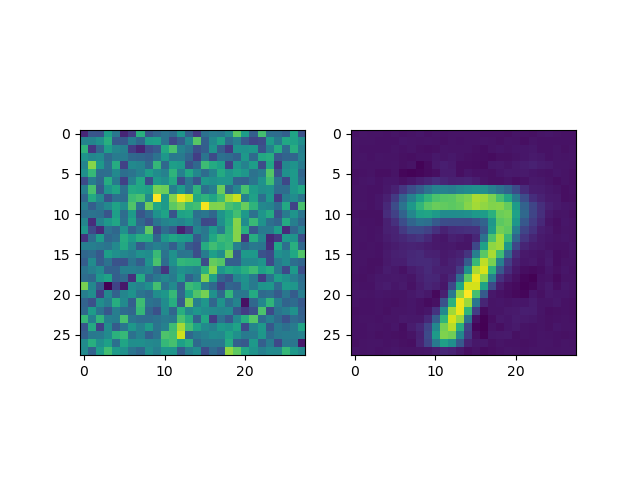
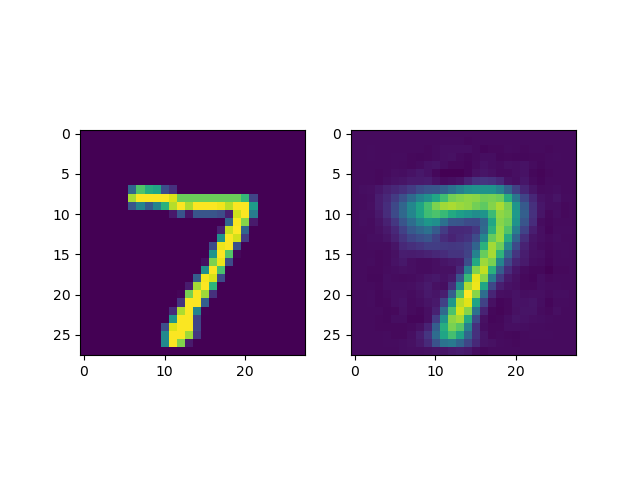
Wabalaba dub dub!

Changed region(s): [[0.125, 0.25, 0.5, 0.75], [0.625, 0.3438, 0.875, 0.75]]

diff --git a/auto.py b/auto.py
@@ -46,6 +46,20 @@ class View(nn.Module):
     def forward(self, input):
         return input.view(*self.shape) 
 
+#   Noise
+normal = torch.distributions.Normal(0, 0.5)
+
+def addNoise(x, device = 'cpu'):
+    return x + normal.sample(sample_shape = torch.Size(x.shape)).to(device)
+
+class AdditiveGaussianNoise(nn.Module):
+    def __init__(self) -> None:
+        super().__init__()
+        
+    def forward(self, x):
+        if self.training:
+            return addNoise(x, device = device)
+
 linearLayer = nn.Linear(D, N, bias = False)
 def getLayer(inSize, outSize):
     return nn.Sequential(
@@ -57,19 +71,27 @@ def getLayer(inSize, outSize):
 #   Encoder
 autoEncoder = nn.Sequential(
     nn.Flatten(),
-    getLayer(D, D*2),
-    getLayer(D*2, D*2),
-    getLayer(D*2, D*2),
-    nn.Linear(D*2, D*2),
+    # AdditiveGaussianNoise(),
+    nn.Dropout(0.2),
+    getLayer(D, D//2),
+    nn.Dropout(0.2),
+    getLayer(D//2, D//3),
+    nn.Dropout(0.2),
+    getLayer(D//3, D//4),
+    nn.Dropout(0.2),
+    nn.Linear(D//4, N),
 )
 
 #   Decoder
 autoDecoder = nn.Sequential(
     # TransposeLayer(linearLayer, bias = False), View(-1, 1, 28, 28)
-    getLayer(D*2, D*2),
-    getLayer(D*2, D*2),
-    getLayer(D*2, D*2),
-    nn.Linear(D*2, D),
+    getLayer(N, D//4),
+    nn.Dropout(0.2),
+    getLayer(D//4, D//3),
+    nn.Dropout(0.2),
+    getLayer(D//3, D//2),
+    nn.Dropout(0.2),
+    nn.Linear(D//2, D),
     View(-1, 1, 28, 28)
 )
 
@@ -138,7 +160,7 @@ projected, labels = encodeBatch(autoEncoder, testSetXY)
 sns.scatterplot(x = projected[:, 0], y = projected[:, 1],
                 hue = [str(l) for l in labels],
                 hue_order = [str(i) for i in range(10)], legend = 'full')
-plt.savefig('./plts/scatter2.png')
+plt.savefig('./plts/scatter.png')
 
 def showEncodeDecode(encodeDecode, x, pltname):
     encodeDecode = encodeDecode.eval()
@@ -151,5 +173,6 @@ def showEncodeDecode(encodeDecode, x, pltname):
     plt.savefig(f'{pltname}.png')
 
 showEncodeDecode(model, testSetXY[0][0], './plts/image1')
-showEncodeDecode(model, testSetXY[2][0], './plts/image2')
-showEncodeDecode(model, testSetXY[10][0], './plts/image3')
+showEncodeDecode(model, addNoise(testSetXY[2][0]), './plts/image2')
+showEncodeDecode(model, addNoise(testSetXY[10][0]), './plts/image3')
+showEncodeDecode(model, testSetXY[25][0], './plts/image4')
